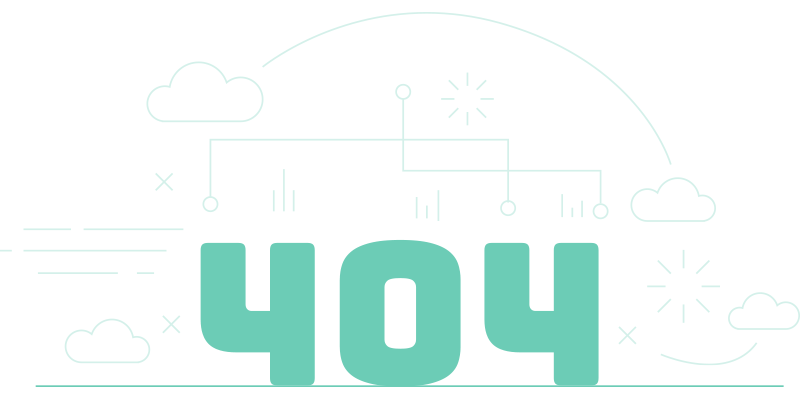
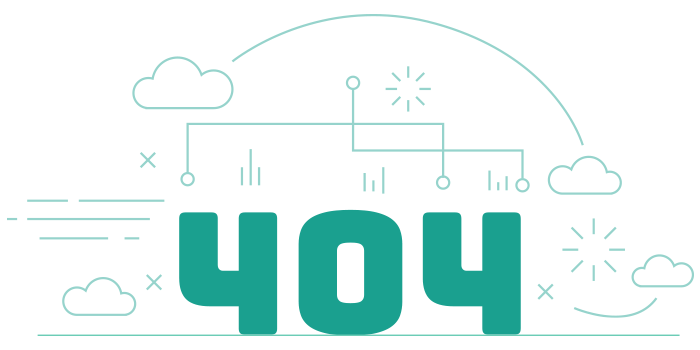
Add Get TFT button in new Dashboard (#1086)
* add Get TFT button

* fix color of toast

* remove print line

* update position of button

* add icon before success or failure in toast

* update 404 page

* use alice client and remove callback

* call connect method

* fix getting tfts

* use getGrid

* check on network && add method to balance module

* improve code readability

* fix bug when solving conflict

* reload balance

* connect client again when connecting to alice

diff --git a/packages/playground/src/components/funds_card.vue b/packages/playground/src/components/funds_card.vue
@@ -1,0 +1,78 @@
+<template>
+  <v-btn
+    id="tftBtn"
+    width="2000"
+    color="white"
+    @click="addTFT"
+    class="px-lg-6 px-md-2 px-sm-0 mx-sm-0"
+    style="color: white; max-width: 140px; width: auto; background-color: var(--primary)"
+    :loading="loadingAddTFT"
+  >
+    GET TFT
+  </v-btn>
+</template>
+
+<script lang="ts">
+import { createToast } from "mosha-vue-toastify";
+import { ref } from "vue";
+
+import { useProfileManagerController } from "../components/profile_manager_controller.vue";
+import { useProfileManager } from "../stores";
+import { getGrid } from "../utils/grid";
+
+export default {
+  name: "FundsCard",
+  setup() {
+    const loadingAddTFT = ref(false);
+    const profileManager = useProfileManager();
+    const ProfileManagerController = useProfileManagerController();
+    const addTFT = async () => {
+      if (window.env.NETWORK !== "dev" && window.env.NETWORK !== "qa") {
+        window.open("https://gettft.com/gettft/", "_blank");
+      } else {
+        loadingAddTFT.value = true;
+        try {
+          const grid = await getGrid(profileManager.profile!);
+          await grid?.balance.getMoreFunds();
+          await ProfileManagerController.reloadBalance();
+          loadingAddTFT.value = false;
+          createToast(`Success!`, {
+            position: "bottom-right",
+            hideProgressBar: true,
+            toastBackgroundColor: "#1aa18f",
+            timeout: 5000,
+            type: "success",
+            showIcon: true,
+          });
+        } catch (e) {
+          loadingAddTFT.value = false;
+          console.log("Error: ", e);
+          createToast(`Get more TFT failed!`, {
+            position: "bottom-right",
+            hideProgressBar: true,
+            toastBackgroundColor: "black",
+            timeout: 5000,
+            type: "danger",
+            showIcon: true,
+          });
+        }
+      }
+    };
+    return {
+      loadingAddTFT,
+      addTFT,
+    };
+  },
+};
+</script>
+
+<style>
+#tftBtn {
+  display: inline-block;
+  min-width: 10px !important;
+}
+
+:root {
+  --primary: #1aa18f;
+}
+</style>

diff --git a/packages/playground/src/App.vue b/packages/playground/src/App.vue
@@ -90,8 +90,11 @@
             <v-img :src="baseUrl + 'images/logoTF.png'" width="160px" />
           </v-toolbar-title>
 
-          <v-spacer></v-spacer>
-
+          <v-spacer>
+            <div class="d-flex align-center justify-start">
+              <FundsCard v-if="hasActiveProfile"></FundsCard>
+            </div>
+          </v-spacer>
           <v-btn class="capitalize" :style="{ pointerEvents: 'none' }" variant="text"> {{ network }}net </v-btn>
           <v-divider vertical class="mx-2" />
           <AppTheme />
@@ -299,6 +302,7 @@ import AppTheme from "./components/app_theme.vue";
 import ConnectWalletLanding from "./components/connect_wallet_landing.vue";
 import DeploymentListManager from "./components/deployment_list_manager.vue";
 import DisclaimerToolbar from "./components/disclaimer_toolbar.vue";
+import FundsCard from "./components/funds_card.vue";
 import ProfileManagerController from "./components/profile_manager_controller.vue";
 import TFNotification from "./components/tf_notification.vue";
 import ProfileManager from "./weblets/profile_manager.vue";
@@ -326,6 +330,7 @@ export default {
     AppTheme,
     ConnectWalletLanding,
     AppInfo,
+    FundsCard,
     ProfileManagerController,
   },
 };

diff --git a/packages/grid_client/src/clients/tf-grid/balances.ts b/packages/grid_client/src/clients/tf-grid/balances.ts
@@ -1,4 +1,4 @@
-import { Balance, Balances, BalanceTransferOptions, QueryBalancesGetOptions } from "@threefold/tfchain_client";
+import { Balance, Balances, BalanceTransferOptions, Client, QueryBalancesGetOptions } from "@threefold/tfchain_client";
 import { Decimal } from "decimal.js";
 
 class TFBalances extends Balances {
@@ -15,6 +15,17 @@ class TFBalances extends Balances {
     const decimalAmount = new Decimal(options.amount);
     const decimalAmountInTFT = decimalAmount.mul(10 ** 7).toNumber();
     return await super.transfer({ address: options.address, amount: decimalAmountInTFT });
+  }
+
+  async getMoreFunds() {
+    if (this.client.url !== "wss://tfchain.dev.grid.tf/ws" && this.client.url !== "wss://tfchain.qa.grid.tf/ws") {
+      throw "Unable to get more TFTs";
+    }
+    await this.client.connect();
+    const client = new Client({ url: this.client.url, mnemonicOrSecret: "//Alice" });
+    await client.connect();
+    const transaction = await client.balances.transfer({ address: this.client.address, amount: 100 * 1e7 });
+    return transaction.apply();
   }
 }
 

diff --git a/packages/tfchain_client/src/client.ts b/packages/tfchain_client/src/client.ts
@@ -254,7 +254,9 @@ class Client extends QueryClient {
       throw Error("mnemonicOrSecret or extension signer should be provided");
     }
     if (this.mnemonicOrSecret) {
-      if (!validateMnemonic(this.mnemonicOrSecret)) {
+      if (this.mnemonicOrSecret === "//Alice") {
+        return;
+      } else if (!validateMnemonic(this.mnemonicOrSecret)) {
         if (this.mnemonicOrSecret.includes(" "))
           // seed shouldn't have spaces
           throw Error("Invalid mnemonic! Must be bip39 compliant");

diff --git a/packages/grid_client/src/modules/balance.ts b/packages/grid_client/src/modules/balance.ts
@@ -27,6 +27,12 @@ class Balance {
   async getMyBalance() {
     return await this.client.balances.getMyBalance();
   }
+
+  @expose
+  @validateInput
+  async getMoreFunds() {
+    return await this.client.balances.getMoreFunds();
+  }
 }
 
 export { Balance as balance };
